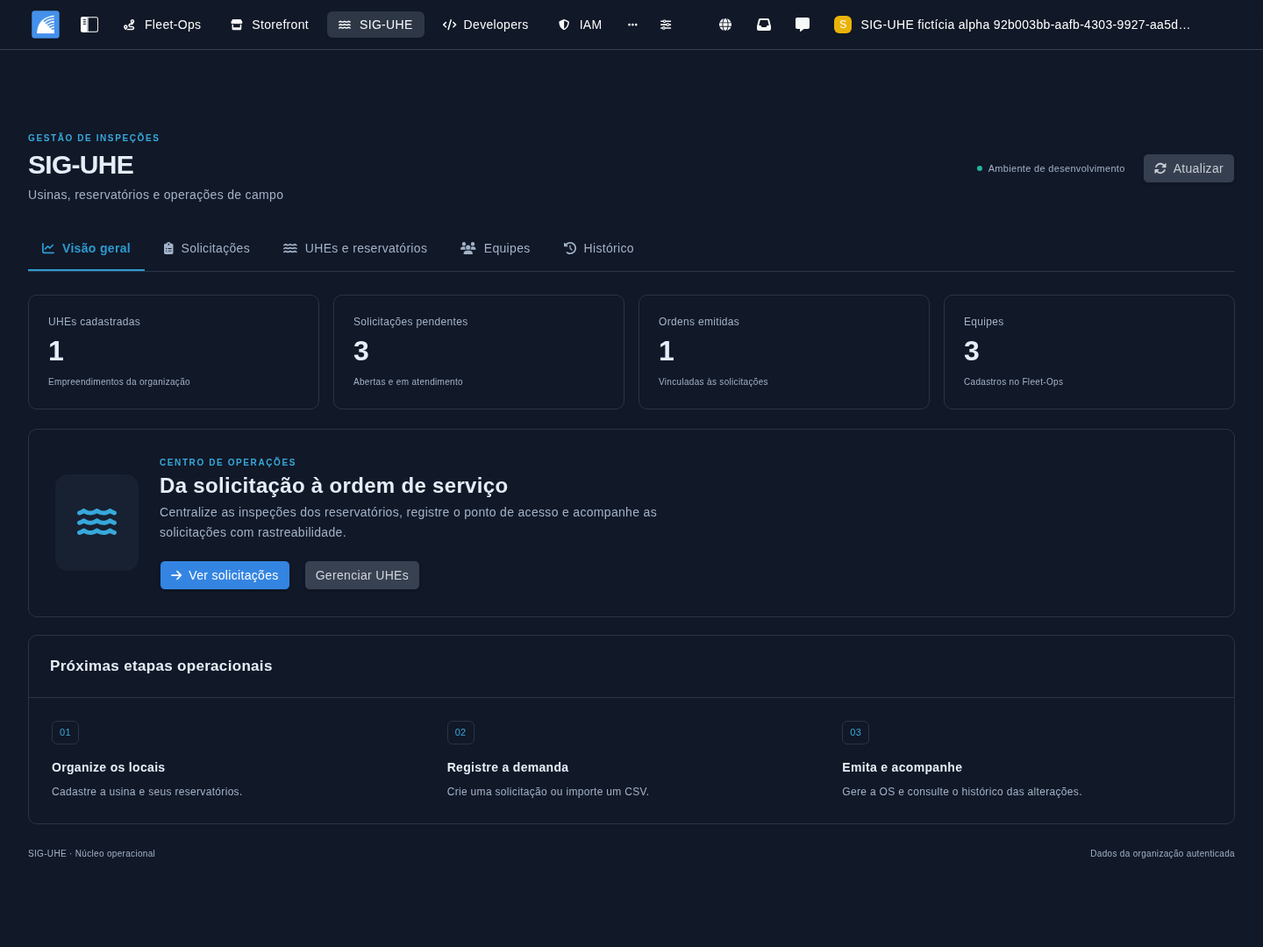
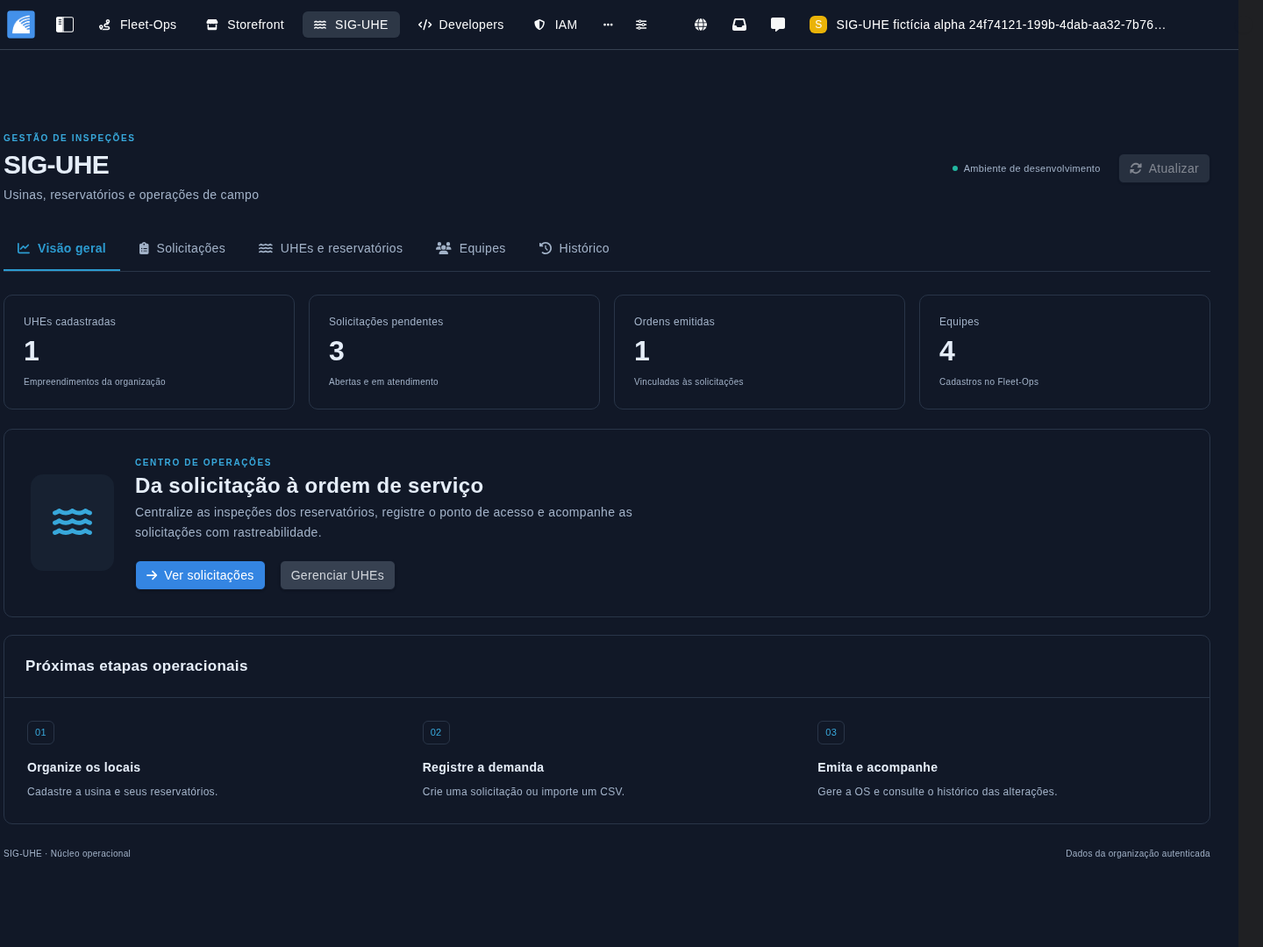
feat: manage team skills, base and weekly shifts in the SIG-UHE console

diff --git a/extensions/sig-uhe/addon/components/sig-workspace.js b/extensions/sig-uhe/addon/components/sig-workspace.js
@@ -12,6 +12,8 @@ const NEXT = {
     awaiting_schedule: ['scheduled', 'cancelled'], scheduled: ['in_progress', 'awaiting_schedule', 'cancelled'],
     in_progress: ['completed', 'cancelled'], completed: [], cancelled: [],
 };
+const SKILLS = { land: 'Inspeção fundiária', environmental: 'Inspeção ambiental', engineering: 'Engenharia', nautical: 'Inspeção náutica', tagging: 'Etiquetagem', drone: 'Inspeção com drone' };
+const DAYS = ['Segunda-feira', 'Terça-feira', 'Quarta-feira', 'Quinta-feira', 'Sexta-feira', 'Sábado', 'Domingo'];
 const PRIORITY = { low: 'Baixa', normal: 'Normal', high: 'Alta', urgent: 'Urgente' };
 
 export default class SigWorkspaceComponent extends Component {
@@ -37,6 +39,7 @@ export default class SigWorkspaceComponent extends Component {
     @tracked form = null;
     @tracked formData = {};
     @tracked selected = null;
+    @tracked profileTeam = null;
     @tracked orders = [];
     // Retain this key on errors so retries cannot create duplicate orders.
     issuanceKey = null;
@@ -64,12 +67,17 @@ export default class SigWorkspaceComponent extends Component {
     get isPlantForm() { return this.form === 'plant'; }
     get isReservoirForm() { return this.form === 'reservoir'; }
     get isRequestForm() { return this.form === 'request'; }
+    get isProfileForm() { return this.form === 'profile'; }
+    get profileReadOnly() { return this.isProfileForm && !this.canWrite; }
+    get skillOptions() { return Object.entries(SKILLS).map(([value, label]) => ({ value, label, checked: (this.formData.skills || []).includes(value) })); }
+    get weekdays() { return DAYS.map((label, i) => ({ value: i + 1, label })); }
+    get teamRows() { return this.teams.map(team => ({ ...team, profileLabel: team.operational_profile ? (team.operational_profile.availability === 'available' ? 'Disponível' : 'Indisponível') : 'Não configurado', skillsLabel: (team.operational_profile?.skills || []).map(skill => SKILLS[skill]).join(', ') })); }
     get isTeamForm() { return this.form === 'team'; }
     get isOrderForm() { return this.form === 'order'; }
     get isStatusForm() { return this.form === 'status'; }
     get formTitle() {
         return { plant: 'Cadastrar UHE', reservoir: 'Cadastrar reservatório', request: 'Nova solicitação',
-            team: 'Cadastrar equipe', order: 'Emitir ordem de serviço', status: 'Atualizar situação' }[this.form];
+            profile: 'Perfil operacional da equipe', team: 'Cadastrar equipe', order: 'Emitir ordem de serviço', status: 'Atualizar situação' }[this.form];
     }
     get statusOptions() { return Object.entries(STATUS).map(([value, label]) => ({ value, label })); }
     get nextStatuses() { return (NEXT[this.selected?.status] || []).map(value => ({ value, label: STATUS[value] })); }
@@ -90,7 +98,7 @@ export default class SigWorkspaceComponent extends Component {
     get auditRows() {
         const names = { 'create.uhe_plants': 'UHE cadastrada', 'create.uhe_reservoirs': 'Reservatório cadastrado',
             'create.uhe_requests': 'Solicitação cadastrada', 'create.uhe_request_orders': 'Vínculo de OS criado',
-            'order.issued': 'Ordem de serviço emitida', 'team.created': 'Equipe cadastrada', 'request.status_changed': 'Situação alterada' };
+            'order.issued': 'Ordem de serviço emitida', 'team.created': 'Equipe cadastrada', 'team.profile_updated': 'Perfil operacional atualizado', 'request.status_changed': 'Situação alterada' };
         return this.audit.map(item => ({ ...item, label: names[item.action] || item.action }));
     }
     get selectedStatus() { return STATUS[this.selected?.status]; }
@@ -157,6 +165,35 @@ export default class SigWorkspaceComponent extends Component {
         try { await this.loadSection(); } catch (error) { this.auditPage -= delta; this.error = this.message(error); }
         finally { this.busy = false; }
     }
+    @action async openProfile(team) {
+        if (this.busy || this.saving) return;
+        this.busy = true; this.error = ''; this.form = null;
+        try {
+            const { profile } = await this.sigApi.get(`teams/${team.uuid}/profile`);
+            this.profileTeam = team;
+            this.formData = profile ? { ...profile, reason: '' } : {
+                version: 0, availability: 'unavailable', timezone: 'America/Sao_Paulo',
+                skills: [], weekly_windows: [], daily_capacity_minutes: 480, base_latitude: '', base_longitude: '', reason: '',
+            };
+            this.form = 'profile';
+        } catch (error) { this.error = this.message(error); }
+        finally { this.busy = false; }
+    }
+    @action toggleSkill(skill, event) {
+        const skills = new Set(this.formData.skills);
+        if (event.target.checked) skills.add(skill); else skills.delete(skill);
+        this.formData = { ...this.formData, skills: [...skills] };
+    }
+    @action addWindow() {
+        this.formData = { ...this.formData, weekly_windows: [...this.formData.weekly_windows, { day: 1, start: '08:00', end: '17:00' }] };
+    }
+    @action removeWindow(index) {
+        this.formData = { ...this.formData, weekly_windows: this.formData.weekly_windows.filter((_, i) => i !== index) };
+    }
+    @action updateWindow(index, field, event) {
+        const value = field === 'day' ? Number(event.target.value) : event.target.value;
+        this.formData = { ...this.formData, weekly_windows: this.formData.weekly_windows.map((window, i) => i === index ? { ...window, [field]: value } : window) };
+    }
     @action openForm(form) {
         this.form = form; this.error = ''; this.notice = '';
         this.formData = { state: 'PR', priority: 'normal', service_seconds: 900 };
@@ -188,12 +225,17 @@ export default class SigWorkspaceComponent extends Component {
                     else data[field] = Number(data[field]);
                 }
             }
-            if (type === 'status') await this.sigApi.patch(`requests/${this.selected.id}`, data);
+            if (type === 'profile') {
+                const payload = Object.fromEntries(['version', 'availability', 'timezone', 'skills', 'weekly_windows', 'reason'].map(key => [key, data[key]]));
+                for (const field of ['base_latitude', 'base_longitude', 'daily_capacity_minutes']) payload[field] = Number(data[field]);
+                await this.sigApi.patch(`teams/${this.profileTeam.uuid}/profile`, payload);
+            }
+            else if (type === 'status') await this.sigApi.patch(`requests/${this.selected.id}`, data);
             else if (type === 'order') await this.sigApi.post(`requests/${this.selected.id}/orders`, { ...data, idempotency_key: this.issuanceKey });
             else await this.sigApi.post({ plant: 'plants', reservoir: 'reservoirs', request: 'requests', team: 'teams' }[type], data);
             this.form = null; this.selected = null; this.notice = type === 'order' ? 'Ordem emitida. A equipe poderá ser programada pelo planejamento operacional.' : 'Registro salvo com sucesso.';
             this.page = 1;
-            await this.refresh({ catalogs: ['plant', 'reservoir', 'team'].includes(type) });
+            await this.refresh({ catalogs: ['plant', 'reservoir', 'team', 'profile'].includes(type) });
         } catch (error) { this.error = this.message(error); }
         finally { this.saving = false; }
     }

diff --git a/extensions/sig-uhe/addon/styles/addon.css b/extensions/sig-uhe/addon/styles/addon.css
@@ -16,3 +16,8 @@
 .next-view-container:has(.sig-workspace) > .next-view-section { margin-left:0; left:0; width:100%; min-width:0; }
 .sig-workspace { width:100%; min-width:0; box-sizing:border-box; overflow-wrap:anywhere; }
 .next-view-container:has(.sig-workspace) > .next-view-section { overflow-y:auto; overflow-x:hidden; }
+.sig-profile-fields { display:grid; grid-template-columns:repeat(2,minmax(0,1fr)); gap:20px; border:0; min-width:0; }
+.sig-check { display:flex; gap:8px; align-items:center; }
+.sig-window-row { display:flex; align-items:flex-end; flex-wrap:wrap; gap:12px; margin:16px 0; }
+.sig-window-row .sig-field { flex:1; min-width:100px; }
+@media(max-width:540px){ .sig-profile-fields { grid-template-columns:1fr; } }

diff --git a/tests/browser.py b/tests/browser.py
@@ -1,7 +1,7 @@
 #!/usr/bin/env python3
 """Real Chromium/Fleetbase E2E. Seed test identities first; no production data."""
 from pathlib import Path
-import csv,io,json,os,uuid,urllib.request
+import csv,io,json,os,time,uuid,urllib.request
 from playwright.sync_api import sync_playwright, expect
 ROOT=Path(__file__).resolve().parents[1]
 AUTH=json.loads((ROOT/'.runtime/test-auth.json').read_text())
@@ -35,7 +35,9 @@ def save(page):
 
 def search(page,text):
     page.get_by_label('Pesquisar',exact=True).fill(text)
-    page.get_by_role('button',name='Filtrar',exact=True).click()
+    with page.expect_response(lambda res: '/sig-uhe/v1/requests?' in res.url and 'q=' in res.url) as pending:
+        page.get_by_role('button',name='Filtrar',exact=True).click()
+    assert pending.value.status==200, f'Search failed: HTTP {pending.value.status}'
     expect(page.locator('.sig-loading')).to_have_count(0,timeout=30000)
 
 def request_form(page,protocol,access):
@@ -54,12 +56,56 @@ def request_form(page,protocol,access):
 with sync_playwright() as p:
     browser=p.chromium.launch(executable_path=os.environ.get('CHROMIUM_PATH','/usr/bin/chromium'),args=['--no-sandbox'])
     context=browser.new_context(viewport={'width':1440,'height':1080},locale='pt-BR',color_scheme='dark')
+    # Respect the real 60/min route limit; the complete suite intentionally makes many requests.
+    last_request=[0.0]
+    def pace_requests(route):
+        delay=1.4-(time.monotonic()-last_request[0])
+        if delay>0: time.sleep(delay)
+        last_request[0]=time.monotonic()
+        route.fallback()
+    context.route('**/sig-uhe/v1/**',pace_requests)
     page=context.new_page()
     errors=[]
     page.on('pageerror',lambda error:errors.append(str(error)))
     try:
         sign_in(page)
         print('PASS: native Fleetbase login and SIG-UHE engine mounted',flush=True)
+        tab(page,'Equipes')
+        team_name='Equipe ambiental '+RUN
+        page.get_by_role('button',name='Cadastrar equipe',exact=True).click()
+        page.get_by_label('Nome da equipe',exact=True).fill(team_name)
+        save(page)
+        team_row=page.locator('.sig-table tbody tr').filter(has_text=team_name)
+        team_row.get_by_role('button',name='Perfil operacional',exact=True).click()
+        expect(page.locator('.sig-form-card')).to_be_visible()
+        page.get_by_label('Disponibilidade operacional',exact=True).select_option('available')
+        page.get_by_label('Latitude da base operacional',exact=True).fill('-23.02')
+        page.get_by_label('Longitude da base operacional',exact=True).fill('-50.02')
+        page.get_by_label('Inspeção ambiental',exact=True).check()
+        page.get_by_label('Inspeção com drone',exact=True).check()
+        page.get_by_role('button',name='Adicionar intervalo',exact=True).click()
+        page.get_by_label('Capacidade diária para serviços (minutos)',exact=True).fill('600')
+        page.get_by_label('Motivo da alteração operacional',exact=True).fill('Jornada inicial de inspeções ambientais')
+        page.get_by_role('button',name='Salvar registro',exact=True).click()
+        expect(page.locator('.sig-error')).to_be_visible()
+        expect(page.locator('.sig-form-card')).to_be_visible()
+        page.get_by_label('Capacidade diária para serviços (minutos)',exact=True).fill('480')
+        save(page)
+        expect(team_row).to_contain_text('Disponível')
+        expect(team_row).to_contain_text('Inspeção ambiental, Inspeção com drone')
+        team_row.get_by_role('button',name='Perfil operacional',exact=True).click()
+        expect(page.get_by_label('Inspeção ambiental',exact=True)).to_be_checked()
+        expect(page.get_by_label('Capacidade diária para serviços (minutos)',exact=True)).to_have_value('480')
+        profile_shots=ROOT/'docs/screenshots';profile_shots.mkdir(exist_ok=True)
+        page.screenshot(path=str(profile_shots/'sig-uhe-equipe.png'),full_page=True)
+        page.set_viewport_size({'width':390,'height':844})
+        bounds=page.locator('.sig-workspace').bounding_box()
+        assert bounds and bounds['x']>=0 and bounds['x']+bounds['width']<=391,'Team profile clipped on mobile'
+        assert page.locator('.sig-profile-fields').evaluate('(el) => el.scrollWidth <= el.clientWidth + 1'),'Team profile fields overflow'
+        page.screenshot(path=str(profile_shots/'sig-uhe-equipe-mobile.png'),full_page=True)
+        page.set_viewport_size({'width':1440,'height':1080})
+        page.get_by_role('button',name='Cancelar',exact=True).click()
+        print('PASS: native team profile, skills, capacity validation and persisted weekly shift',flush=True)
         tab(page,'UHEs e reservatórios')
         page.get_by_role('button',name='Cadastrar UHE',exact=True).click()
         page.get_by_label('Código da UHE',exact=True).fill('CN1-'+RUN)
@@ -149,10 +195,15 @@ with sync_playwright() as p:
         expect(reader_page.get_by_role('button',name='Nova solicitação',exact=True)).to_have_count(0)
         expect(reader_page.locator('#sig-csv')).to_have_count(0)
         assert api('GET','overview',actor='reader')['can_write'] is False
+        tab(reader_page,'Equipes')
+        reader_page.locator('.sig-table tbody tr').filter(has_text=team_name).get_by_role('button',name='Perfil operacional',exact=True).click()
+        expect(reader_page.get_by_label('Latitude da base operacional',exact=True)).to_be_disabled()
+        expect(reader_page.get_by_role('button',name='Salvar registro',exact=True)).to_have_count(0)
+        expect(reader_page.get_by_role('button',name='Adicionar intervalo',exact=True)).to_have_count(0)
         reader.close()
         print('PASS: native read-only login cannot see write/import controls',flush=True)
         assert not errors,'Browser runtime errors: '+repr(errors[:4])
-        print('E2E complete: 8 scenario groups passed; real backend, no skipped groups.',flush=True)
+        print('E2E complete: 9 scenario groups passed; real backend, no skipped groups.',flush=True)
     except Exception:
         page.screenshot(path=str(ROOT/'.runtime/browser-failure.png'),full_page=True)
         (ROOT/'.runtime/browser-failure.json').write_text(json.dumps({'url':page.url,'body':page.locator('body').inner_text()[:12000],'errors':errors[:15]},indent=2))

diff --git a/docs/VALIDATION.md b/docs/VALIDATION.md
@@ -8,15 +8,16 @@ Incremento da API e da interface Ember de desenvolvimento validado com Fleetbase
 |---|---|
 | Dependências do composer.lock upstream | 274 pacotes instalados, incluindo desenvolvimento; TLS e checksums do transporte preservados |
 | Migrations nativas e SIG-UHE | Aplicadas; nova instalação repetida resultou em Nothing to migrate |
-| `tests/functional.py` | 12 testes passaram, sem skips, última execução em 21,211 s |
+| `tests/functional.py` | 13 testes passaram, sem skips, última execução em 32,108 s |
 | Cadastro/importação | 100 solicitações fictícias em CSV; lote inválido revertido; protocolo duplicado rejeitado |
 | Ordens | 100 OS nativas emitidas em lote; reenvio idempotente; conteúdo divergente rejeitado |
 | Integração nativa | OS consultada com sucesso em `/v1/orders/{public_id}` |
 | Isolamento/autorização | Outra organização não lê/vincula registros; perfil consulta lê e recebe 403 ao escrever; anônimo recebe 401 |
 | Acesso geográfico | Coordenadas inválidas e acesso incompleto rejeitados; emissão sem acesso bloqueada |
+| Perfil operacional de equipe | Base, fuso, habilidades, jornadas e capacidade persistidos; sobreposição e valores inválidos rejeitados; versão antiga recebe 409; motivo e antes/depois auditados; isolamento e perfil consulta conferidos |
 | Equipes/estados/auditoria | Fleets nativas criadas/consultadas; transições inválidas bloqueadas; motivo registrado; auditoria segregada |
 | `tests/storage.php` | 100 ordens, payloads, estados independentes e coordenadas de acesso verificadas no MySQL |
-| `tests/migration.php` | up/down em schema descartável com definições reais de companies/orders; banco de desenvolvimento preservado |
+| `tests/migration.php` | up/down das duas migrations em schema descartável com definições reais de companies/orders/fleets; banco de desenvolvimento preservado |
 | `tests/queue.php` | Job enviado ao Redis e executado pelo worker Laravel; zero jobs falhos no banco de desenvolvimento |
 | Repetibilidade | `python scripts/setup.py` executado após instalação; dependências existentes preservadas; serviços reiniciados |
 | Código upstream | `git status --short` vazio no checkout de runtime; composer.json e composer.lock inalterados |
@@ -24,9 +25,9 @@ Incremento da API e da interface Ember de desenvolvimento validado com Fleetbase
 ## Interface e gateway
 
 - Console Fleetbase 0.7.71 com Ember Engine SIG-UHE compilada usando pnpm 11.0.9 e lockfile upstream preservado.
-- `tests/browser.py`: oito grupos passaram no Chromium real, sem grupos omitidos: autenticação nativa; cadastros; bloqueio de OS sem acesso e situação justificada; OS idempotente após perda de resposta; CSV inválido/corrigido; paginação 50 + 1; histórico e layout móvel; perfil de consulta. Sem erros de execução JavaScript na sessão administrativa.
+- `tests/browser.py`: nove grupos passaram no Chromium real, sem grupos omitidos: autenticação nativa; cadastros; bloqueio de OS sem acesso e situação justificada; OS idempotente após perda de resposta; CSV inválido/corrigido; paginação 50 + 1; histórico e layout móvel; perfil de consulta; perfil operacional com habilidades/jornada, validação de capacidade, reabertura e consulta desabilitada para escrita. Sem erros de execução JavaScript na sessão administrativa.
 - `tests/web_gateway.py`: quatro testes passaram, incluindo arquivos privados inacessíveis, autenticação preservada, saúde/SPA e arquivos estáticos.
-- Capturas reais com dados sintéticos: [painel](screenshots/sig-uhe-dashboard.png), [solicitações](screenshots/sig-uhe-solicitacoes.png), [celular](screenshots/sig-uhe-mobile.png).
+- Capturas reais com dados sintéticos: [painel](screenshots/sig-uhe-dashboard.png), [solicitações](screenshots/sig-uhe-solicitacoes.png), [celular](screenshots/sig-uhe-mobile.png), [perfil da equipe](screenshots/sig-uhe-equipe.png) e [equipe no celular](screenshots/sig-uhe-equipe-mobile.png).
 - As credenciais de demonstração são geradas aleatoriamente pelo seed e permanecem privadas. O onboarding corporativo e a matriz completa de permissões nativas não foram homologados.
 
 ## Falhas investigadas e resolvidas
@@ -42,6 +43,7 @@ Incremento da API e da interface Ember de desenvolvimento validado com Fleetbase
 9. Engine isolado sem resolver componentes nativos: dependências Ember Core/UI declaradas, carregamento lazy e ember-engines como peer dependency.
 10. Conta de teste sem papel nativo e senha com hash duplo: fixtures passaram a usar papel Sanctum e o mutator de senha nativo, permitindo login real.
 11. Barra lateral vazia cobria o módulo no celular: layout da própria extensão ajustado; verificação passou a medir a área útil, além do overflow da página.
+12. A suíte ampliada excedeu o limite real de 60 requisições/minuto. As chamadas do navegador passaram a respeitar esse limite e a busca passou a exigir HTTP 200 antes de usar os resultados; a proteção do servidor foi mantida.
 
 As primeiras tentativas falharam antes da execução dos cenários; nenhum resultado com zero testes foi considerado aprovação.
 

diff --git a/docs/TEAM_OPERATIONS.md b/docs/TEAM_OPERATIONS.md
@@ -1,0 +1,28 @@
+# Perfil operacional das equipes
+
+O cadastro de equipe continua sendo o `Fleet` nativo do Fleet-Ops. O perfil SIG-UHE é uma extensão 1:1, em `uhe_team_profiles`; não substitui inspetores, veículos, áreas de serviço ou o status nativo da frota.
+
+Na aba **Equipes**, abra **Perfil operacional** para informar:
+
+- Disponibilidade para planejamento: disponível ou indisponível. Uma equipe sem perfil aparece como não configurada, sem disponibilidade presumida.
+- Base operacional em latitude/longitude WGS84 e fuso IANA, como `America/Sao_Paulo`.
+- Habilidades: inspeção fundiária, ambiental, engenharia, náutica, etiquetagem e drone.
+- Intervalos semanais por dia ISO (1 = segunda, 7 = domingo), em horário local, incluindo múltiplos intervalos para pausas.
+- Capacidade diária em minutos, limitada à soma de intervalos de cada dia cadastrado.
+- Motivo obrigatório da alteração, preservado com versões anterior e posterior no histórico.
+
+Intervalos sobrepostos, fim anterior ao início, coordenadas inválidas e fuso inexistente são rejeitados. Uma equipe disponível exige ao menos um intervalo. As horas seguem precisão de minutos e intervalos dentro do mesmo dia; turnos contínuos atravessando meia-noite ainda exigem evolução do modelo. Feriados, férias, ausências por data, capacidade diferenciada por dia, área de atuação, escala de inspetores e disponibilidade de veículos permanecem pendentes.
+
+## API e concorrência
+
+`GET /sig-uhe/v1/teams/{uuid}/profile` retorna `{ "profile": null }` para uma equipe própria ainda não configurada. O catálogo de equipes inclui `operational_profile` para cada equipe, consultado em lote.
+
+`PATCH /sig-uhe/v1/teams/{uuid}/profile` recebe todos os campos do perfil, `reason` e `version` (zero no primeiro cadastro). A versão sobe a cada alteração. Um editor com versão antiga recebe HTTP 409 e deve recarregar antes de salvar; o formulário preserva os valores digitados em caso de erro. A transação bloqueia a equipe nativa inclusive na criação do primeiro perfil, evitando perda de atualização concorrente. O histórico é gravado na mesma transação.
+
+O servidor obtém a organização da sessão. Perfis de outra organização retornam 404, usuários de consulta recebem 403 ao tentar escrever e os controles de edição ficam desabilitados na interface.
+
+## Limite operacional
+
+Disponibilidade e habilidades são dados cadastrais. Ainda não existe alocação automática, cálculo de elegibilidade por instante, OSRM/VROOM nem despacho que aplique essas restrições. Salvar um perfil não programa ordens ou muda o estado delas. A integração dessas restrições com planejamento e solver será validada em etapa própria.
+
+Capturas reais com dados sintéticos: [perfil da equipe](screenshots/sig-uhe-equipe.png) e [celular](screenshots/sig-uhe-equipe-mobile.png).

diff --git a/docs/IMPLEMENTATION_PLAN.md b/docs/IMPLEMENTATION_PLAN.md
@@ -1,8 +1,8 @@
 # Plano incremental e critérios de aceite
 
 1. **Fase 0 — auditoria:** documentos de arquitetura, reaproveitamento, modelo, plano e riscos; fontes fixadas. Concluída para a seleção inicial, com análises aprofundadas de GIS/mobile reservadas às suas fases.
-2. **Fase 1 — incremento API:** runtime Docker menor com MySQL, Redis e worker, Laravel/Fleet-Ops reais, cadastros básicos de UHE/reservatório/solicitação, CSV, ordens nativas e auditoria. Testar isolamento, permissões, 100 solicitações e ordens, idempotência, acesso ausente e rollback. Esta é uma entrega parcial da fase 1: faltam gestão de disponibilidade/habilidades, fluxo completo de OS e campos corporativos adicionais.
-3. **Concluir fase 1:** Ember Engine registrado, telas com componentes Fleetbase e oito grupos browser/e2e validados neste incremento. Pendentes: permissões por UHE, perfis, formulário completo e política de estados; onboarding de organização pela interface nativa.
+2. **Fase 1 — incremento API:** runtime Docker menor com MySQL, Redis e worker, Laravel/Fleet-Ops reais, cadastros básicos de UHE/reservatório/solicitação, CSV, ordens nativas e auditoria. Testar isolamento, permissões, 100 solicitações e ordens, idempotência, acesso ausente e rollback. Esta é uma entrega parcial da fase 1: perfil de habilidades/disponibilidade/jornada semanal implementado; faltam exceções de calendário, composição de equipes, fluxo completo de OS e campos corporativos adicionais.
+3. **Concluir fase 1:** Ember Engine registrado, telas com componentes Fleetbase e nove grupos browser/e2e validados neste incremento. Pendentes: permissões por UHE, perfis, formulário completo e política de estados; onboarding de organização pela interface nativa.
 4. **Fase 2:** recorte OSM autorizado, imagens estáveis OSRM/VROOM com digest, PostGIS e Redis; testes reais de matriz sem acesso, skills, jornadas, não alocação, aprovação e orquestração de dias. Duração em metadados deve ser traduzida explicitamente para o solver.
 5. **Fase 3:** versão de rota, urgência como proposta, preservar iniciados/concluídos, aprovação e evento auditável.
 6. **Fases 4–6:** campanhas/missões sem pontos predefinidos, inventário permanente com revisão de possíveis duplicatas, comparação histórica e etiquetagem autenticada.

diff --git a/docs/WEB_INTERFACE.md b/docs/WEB_INTERFACE.md
@@ -6,7 +6,7 @@ A interface é um Ember Engine montado na console Fleetbase, em `/sig-uhe`. Usa 
 
 - Visão geral com contagens agregadas de toda a organização, sem inferir totais a partir da primeira página.
 - Cadastro e consulta de UHEs e reservatórios.
-- Cadastro de equipes pelo modelo Fleet do Fleet-Ops.
+- Cadastro de equipes pelo modelo Fleet do Fleet-Ops, com [perfil operacional](TEAM_OPERATIONS.md) para habilidades, base, disponibilidade e jornada semanal.
 - Solicitações com busca por protocolo/descrição, filtro de situação e paginação no servidor.
 - Cadastro de solicitação com coordenadas da ocorrência e acesso opcional, separados.
 - Detalhes, alteração justificada de situação e consulta das OS vinculadas.
@@ -36,7 +36,7 @@ O serviço Compose `web` serve a compilação e encaminha as chamadas para a API
 bash scripts/test_web.sh
 ```
 
-Usa Chromium em `/usr/bin/chromium` (ou `CHROMIUM_PATH`) e Playwright. Quando o pacote Python não estiver presente, instala a versão fixada em um ambiente virtual ignorado pelo Git. O seed gera senhas aleatórias para os perfis sintéticos; elas ficam somente em `.runtime/test-auth.json`, modo 0600, e nunca são impressas. O navegador autentica pelo formulário real do Fleetbase. Não há credencial padrão pública.
+Usa Chromium em `/usr/bin/chromium` (ou `CHROMIUM_PATH`) e Playwright. Quando o pacote Python não estiver presente, instala a versão fixada em um ambiente virtual ignorado pelo Git. O seed gera senhas aleatórias para os perfis sintéticos; elas ficam somente em `.runtime/test-auth.json`, modo 0600, e nunca são impressas. A suíte espaça as chamadas para respeitar o limite real de 60 requisições/minuto da extensão; esse limite não é desativado nos testes. O navegador autentica pelo formulário real do Fleetbase. Não há credencial padrão pública.
 
 Não utilize esse seed com dados de produção. A conta sintética serve para teste e demonstração; usuários corporativos devem ser provisionados pelo fluxo de identidade nativo e por sua política de acesso.
 

diff --git a/docs/DATA_MODEL.md b/docs/DATA_MODEL.md
@@ -6,6 +6,7 @@
 - `uhe_reservoirs`: UUID, organização, UHE e nome único por UHE. Relação UHE 1:N reservatórios.
 - `uhe_requests`: UUID, organização, reservatório, protocolo único por organização, descrição, categoria, prioridade, estado independente, localização da ocorrência, acesso opcional, duração em segundos e prazo UTC.
 - `uhe_request_orders`: vínculo N:M entre solicitação e `orders` nativas; UUID, organização, chave de idempotência e hash normalizado da operação. A emissão atual cria uma ordem por operação; múltiplas emissões com chaves distintas são permitidas. Agrupamento de várias solicitações numa OS é evolução futura.
+- `uhe_team_profiles`: extensão 1:1 de `fleets` nativas, com organização, disponibilidade, base, fuso IANA, habilidades, jornadas semanais JSON, capacidade diária e versão otimista. FK para `fleets`; atualizações serializam a equipe nativa e registram antes/depois. Ver [perfil operacional](TEAM_OPERATIONS.md).
 - `uhe_audit_events`: UUID, organização, ator, ação, objeto, detalhes e instante. Escrita é transacional e a API só oferece consulta. Não é armazenamento imutável contra administradores do banco.
 
 Chaves estrangeiras impedem remoção física de pais com filhos; não há exclusão na API inicial. Entidades operacionais nativas preservam seus mecanismos de UUID, public_id, soft delete e auditoria. Não se acessa banco de outra organização via IDs recebidos no corpo. A atribuição de `company_uuid` é sempre feita pelo servidor. Escopo de UHE por usuário ainda exige tabela de concessões e autorização própria; não é atendido apenas pelo isolamento de organizações.

diff --git a/README.md b/README.md
@@ -18,7 +18,7 @@ docker compose up -d --wait database cache api worker web
 docker compose exec -T api php scripts/artisan.php migrate:status --no-ansi
 ```
 
-O servidor PHP é exclusivo para desenvolvimento e escuta somente em loopback no host. A console Ember contém o módulo SIG-UHE com visão geral, UHEs, reservatórios, equipes, solicitações e histórico. Consulte [a documentação da interface](docs/WEB_INTERFACE.md). Não há usuário público padrão; os testes abaixo criam identidades sintéticas com tokens e senhas privados para validar os fluxos. Em instalações convencionais, usar o onboarding e autenticação nativos do Fleetbase.
+O servidor PHP é exclusivo para desenvolvimento e escuta somente em loopback no host. A console Ember contém o módulo SIG-UHE com visão geral, UHEs, reservatórios, equipes, solicitações e histórico. Equipes têm [perfil operacional](docs/TEAM_OPERATIONS.md) com habilidades, base, disponibilidade e jornada semanal. Consulte [a documentação da interface](docs/WEB_INTERFACE.md). Não há usuário público padrão; os testes abaixo criam identidades sintéticas com tokens e senhas privados para validar os fluxos. Em instalações convencionais, usar o onboarding e autenticação nativos do Fleetbase.
 
 ## Testes funcionais
 

diff --git a/docs/REUSE_MATRIX.md b/docs/REUSE_MATRIX.md
@@ -4,7 +4,7 @@
 |---|---|---|
 | Organização, usuário, autenticação | Core `Models/Company.php`, `Models/User.php`, middleware Sanctum | Reutilizados; sem cadastro paralelo de identidade |
 | Permissões | Core `HasPolicies`, `AuthorizationGuard`, Spatie | Reutilizados com autorização explícita da extensão; granularidade por UHE pendente |
-| Equipes | `Models/Fleet.php`, `FleetDriver.php`, `FleetVehicle.php` | Reutilizar; fixture cria três fleets nativas; calendário e habilidades de equipe pendentes |
+| Equipes | `Models/Fleet.php`, `FleetDriver.php`, `FleetVehicle.php` | Fleet nativa reutilizada; perfil SIG-UHE 1:1 adiciona habilidades, disponibilidade e jornada semanal; exceções por data e planejamento pendentes |
 | Inspetor e veículo | `Models/Driver.php`, `Vehicle.php` | Reutilizar; adequação do perfil inspetor pendente |
 | OS roteirizável | `Models/Order.php`, `OrderConfig.php`, `Payload.php`, `Place.php` | Reutilizados pelo adaptador; estado próprio da solicitação preservado |
 | OS de manutenção | `Models/WorkOrder.php` | Existe; não confundir automaticamente com Order roteirizável. Objeto de manutenção não adotado como duplicata de inspeção |
